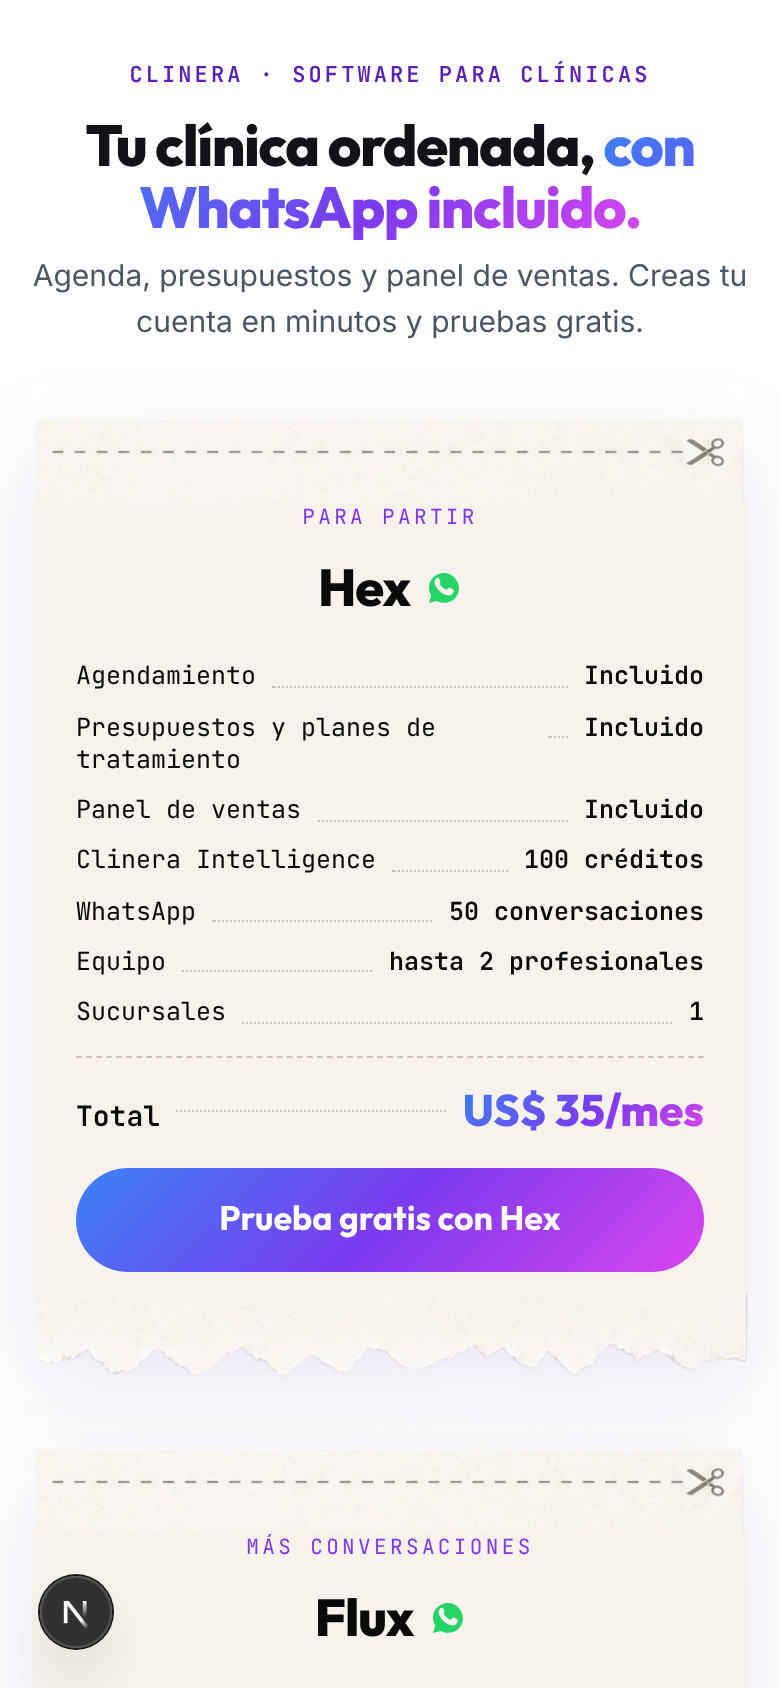
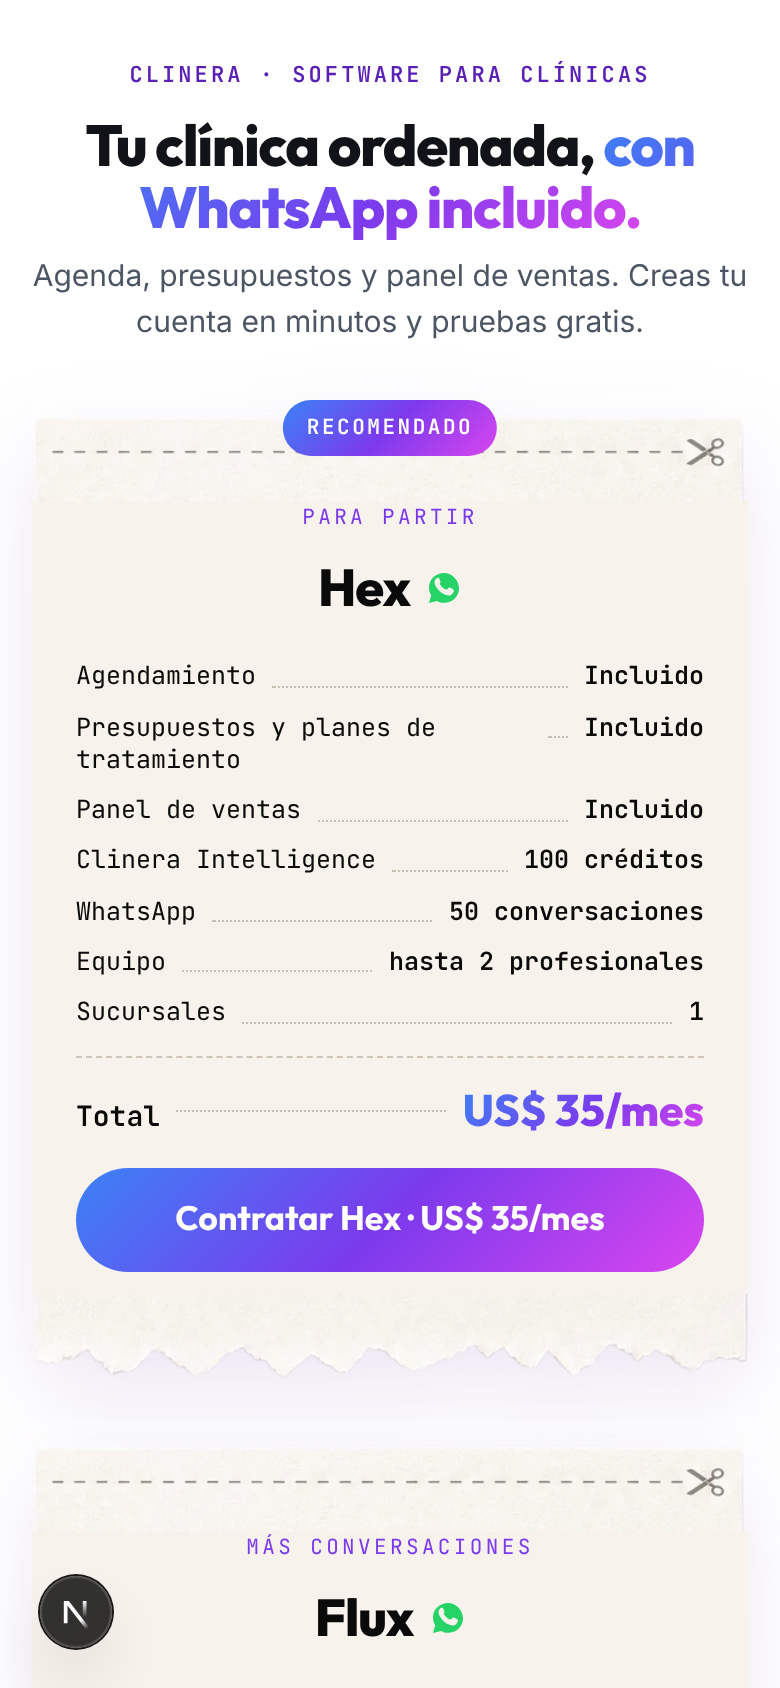
planes: Hex recomendado, primero, con CTA al Payment Link de Stripe
- Hex: insignia «Recomendado» y botón principal al checkout de Stripe (14AdRb…1441M),
  pelado (Analytics.tsx pone client_reference_id) y con los utm de la visita.
- Flux sigue con «Prueba gratis» como secundario. Vortex y Ecosistema sin cambios.
- Aplica en /contrata, /planes y /planes2 (comparten planes-nuevos.ts).

Claude-Session: https://claude.ai/code/session_01KKwzuPihJq4fwqu7rq7928

Changed region(s): [[0.3692, 0.2156, 0.6462, 0.2773], [0.2154, 0.7085, 0.7692, 0.7393]]

diff --git a/src/components/planes-nuevos/PlanesNuevos.tsx b/src/components/planes-nuevos/PlanesNuevos.tsx
@@ -32,7 +32,10 @@ import {
   PRUEBA_LINEA,
   PRUEBA_URL,
   VENTAS_LABEL,
+  HEX_PAGO_LABEL,
+  RECOMENDADO_LABEL,
   conPlan,
+  conUtm,
   faqPublica,
   ofertaVigente,
   precioOferta,
@@ -158,7 +161,13 @@ function Tarjeta({ plan, search, oferta, publico }: { plan: PlanNuevo; search: s
     const dec = meta.currency === "USD" && !Number.isInteger(v) ? 2 : 0;
     return `${meta.currency === "USD" ? "US$" : "MX$"} ${v.toLocaleString("es-CL", { minimumFractionDigits: dec, maximumFractionDigits: dec })}`;
   };
-  const href = plan.cta === "prueba" ? conPlan(PRUEBA_URL, plan.id, search) : conPlan("/agenda", plan.id, search);
+  const href =
+    plan.cta === "pago" && plan.pagoUrl
+      ? conUtm(plan.pagoUrl, search)
+      : plan.cta === "prueba"
+        ? conPlan(PRUEBA_URL, plan.id, search)
+        : conPlan("/agenda", plan.id, search);
+  const recomendado = plan.cta === "pago";
   const onClick = () => {
     if (plan.cta === "prueba") {
       track("start_trial_click", { plan: plan.id });
@@ -203,7 +212,7 @@ function Tarjeta({ plan, search, oferta, publico }: { plan: PlanNuevo; search: s
             ))}
           </span>
         )}
-        {(plan.cta === "prueba" || conOferta) && (
+        {(plan.cta === "prueba" || conOferta || recomendado) && (
           <span
             data-insignia
             style={{
@@ -219,10 +228,10 @@ function Tarjeta({ plan, search, oferta, publico }: { plan: PlanNuevo; search: s
               borderRadius: 999,
               whiteSpace: "nowrap",
               boxShadow: "0 4px 12px -4px rgba(15,23,42,.18)",
-              ...(conOferta ? { background: GRAD, color: "#fff" } : { background: "#ECFDF5", color: "#047857", border: "1px solid #A7F3D0" }),
+              ...(conOferta || recomendado ? { background: GRAD, color: "#fff" } : { background: "#ECFDF5", color: "#047857", border: "1px solid #A7F3D0" }),
             }}
           >
-            {conOferta ? `${OFERTA_LANZAMIENTO.porcentaje}% OFF` : "Prueba gratis"}
+            {recomendado ? RECOMENDADO_LABEL : conOferta ? `${OFERTA_LANZAMIENTO.porcentaje}% OFF` : "Prueba gratis"}
           </span>
         )}
       </div>
@@ -254,8 +263,11 @@ function Tarjeta({ plan, search, oferta, publico }: { plan: PlanNuevo; search: s
       <div style={{ display: "grid", gap: 10 }}>
       <a
         href={href}
-        onClick={onClick}
+        // El Payment Link va pelado: el clic lo cuenta Analytics.tsx (InitiateCheckout +
+        // client_reference_id). Un onClick propio lo contaba doble (16-oct).
+        onClick={plan.cta === "pago" ? undefined : onClick}
         data-cta={plan.cta}
+        {...(plan.cta === "pago" ? { "data-plan": plan.id, "data-plan-name": plan.name, "data-plan-value": plan.monthlyUsd } : {})}
         suppressHydrationWarning
         style={{
           display: "block",
@@ -268,12 +280,12 @@ function Tarjeta({ plan, search, oferta, publico }: { plan: PlanNuevo; search: s
           textDecoration: "none",
           minHeight: 44,
           boxSizing: "border-box",
-          ...(plan.cta === "ventas"
+          ...(plan.cta === "ventas" || plan.cta === "pago"
             ? { background: GRAD, color: "#fff" }
             : { background: "#fff", color: "#0A0A0A", border: "1px solid #E5E7EB" }),
         }}
       >
-        {plan.cta === "prueba" ? PRUEBA_LABEL : VENTAS_LABEL}
+        {plan.cta === "pago" ? HEX_PAGO_LABEL : plan.cta === "prueba" ? PRUEBA_LABEL : VENTAS_LABEL}
       </a>
       {pago?.pagoUrl ? (
         // Enlace pelado: el clic lo cuenta Analytics.tsx (InitiateCheckout + client_reference_id).

diff --git a/src/components/contrata/ContrataLanding.tsx b/src/components/contrata/ContrataLanding.tsx
@@ -13,11 +13,14 @@ import { useEffect, useSyncExternalStore } from "react";
 import { CHANNEL_LABEL, ChannelLogo } from "@/components/pricing/PlanChannelLogos";
 import { track, trackPixel } from "@/lib/tracking";
 import {
+  HEX_PAGO_LABEL,
   PLANES_NUEVOS,
+  RECOMENDADO_LABEL,
   PRUEBA_LABEL,
   PRUEBA_LINEA,
   PRUEBA_URL,
   conPlan,
+  conUtm,
   type PlanNuevo,
 } from "@/content/planes-nuevos";
 import styles from "./ContrataLanding.module.css";
@@ -74,10 +77,18 @@ export default function ContrataLanding() {
 }
 
 function Ticket({ plan, search }: { plan: PlanNuevo; search: string }) {
-  const href = conPlan(PRUEBA_URL, plan.id, search);
+  // Hex es el plan a vender (Ricardo, 4-nov-2026): su botón es el Payment Link de Stripe, con los utm
+  // de la visita. Flux sigue con «Prueba gratis», en segundo plano.
+  const pago = plan.cta === "pago" && plan.pagoUrl;
+  const href = pago ? conUtm(plan.pagoUrl!, search) : conPlan(PRUEBA_URL, plan.id, search);
   const lineas = [...BASE_COMUN, ...plan.incluye.filter((f) => f.includes(" con "))];
   return (
-    <article className={styles.ticket} data-contrata-plan={plan.id}>
+    <article className={`${styles.ticket} ${pago ? styles.recomendado : ""}`} data-contrata-plan={plan.id}>
+      {pago && (
+        <span className={styles.insignia} data-insignia>
+          {RECOMENDADO_LABEL}
+        </span>
+      )}
       {/* eslint-disable-next-line @next/next/no-img-element */}
       <img src="/images/agenda/boleta-arriba.webp" alt="" aria-hidden className={styles.papel} width={600} height={96} />
       <div className={styles.cuerpo}>
@@ -125,18 +136,33 @@ function Ticket({ plan, search }: { plan: PlanNuevo; search: string }) {
           <span className={styles.monto}>US$ {plan.monthlyUsd}/mes</span>
         </div>
 
-        <a
-          href={href}
-          suppressHydrationWarning
-          data-cta="prueba"
-          className={styles.cta}
-          onClick={() => {
-            track("start_trial_click", { plan: plan.id, source_path: "/contrata" });
-            trackPixel("StartTrial", { content_name: plan.name, value: 0, currency: "USD" });
-          }}
-        >
-          {PRUEBA_LABEL} con {plan.name}
-        </a>
+        {pago ? (
+          // Enlace pelado: Analytics.tsx cuenta el clic y le pone client_reference_id.
+          <a
+            href={href}
+            suppressHydrationWarning
+            data-cta="pago"
+            data-plan={plan.id}
+            data-plan-name={plan.name}
+            data-plan-value={plan.monthlyUsd}
+            className={styles.cta}
+          >
+            {HEX_PAGO_LABEL} · US$ {plan.monthlyUsd}/mes
+          </a>
+        ) : (
+          <a
+            href={href}
+            suppressHydrationWarning
+            data-cta="prueba"
+            className={`${styles.cta} ${styles.ctaSecundario}`}
+            onClick={() => {
+              track("start_trial_click", { plan: plan.id, source_path: "/contrata" });
+              trackPixel("StartTrial", { content_name: plan.name, value: 0, currency: "USD" });
+            }}
+          >
+            {PRUEBA_LABEL} con {plan.name}
+          </a>
+        )}
       </div>
       {/* eslint-disable-next-line @next/next/no-img-element */}
       <img src="/images/agenda/boleta-abajo.webp" alt="" aria-hidden className={styles.papel} width={600} height={70} />

diff --git a/src/content/planes-nuevos.ts b/src/content/planes-nuevos.ts
@@ -24,13 +24,21 @@ export type PlanNuevo = {
   incluye: readonly string[];
   /** Lo que NO trae, en gris: muestra qué se desbloquea al subir. */
   noIncluye: readonly string[];
-  cta: "prueba" | "ventas";
+  /** «pago»: Payment Link de Stripe (Hex, desde el 4-nov-2026). «prueba»: app.clinera.io. «ventas»: /agenda. */
+  cta: "pago" | "prueba" | "ventas";
+  /** Payment Link de Stripe cuando `cta` es «pago». */
+  pagoUrl?: string;
   destacado?: boolean;
   /** Logos de canales junto al nombre (Ricardo, 29-oct). Desde el 4-nov todos traen WhatsApp. */
   canales: readonly ("whatsapp" | "facebook" | "instagram")[];
 };
 
 export const PRUEBA_URL = "https://app.clinera.io";
+// Hex es el plan a vender y el cliente parte en Hex (Ricardo, 4-nov-2026): su CTA principal es el
+// Payment Link de Stripe. Enlace pelado: Analytics.tsx le pone client_reference_id al hacer clic.
+export const HEX_PAGO_URL = "https://buy.stripe.com/14AdRbdBnfD49wTgwz1441M";
+export const HEX_PAGO_LABEL = "Contratar Hex";
+export const RECOMENDADO_LABEL = "Recomendado";
 export const PRUEBA_LABEL = "Prueba gratis";
 export const VENTAS_LABEL = "Hablar con ventas";
 
@@ -46,8 +54,10 @@ export const PLANES_NUEVOS: readonly PlanNuevo[] = [
     sucursales: "1 sucursal",
     incluye: [...BASE, "Clinera Intelligence con 100 créditos", "WhatsApp con 50 conversaciones"],
     noIncluye: ["Instagram y Facebook", "Agente IA", "Automatizaciones", "Difusiones"],
-    cta: "prueba",
+    cta: "pago",
+    pagoUrl: HEX_PAGO_URL,
     canales: ["whatsapp"],
+    destacado: true,
   },
   {
     id: "flux",
@@ -98,7 +108,6 @@ export const PLANES_NUEVOS: readonly PlanNuevo[] = [
     noIncluye: [],
     cta: "ventas",
     canales: ["whatsapp", "facebook", "instagram"],
-    destacado: true,
   },
 ];
 
@@ -206,4 +215,12 @@ export function faqPublica(): { q: string; a: string }[] {
   const propias = PLANES2_FAQ.map((f) => ({ q: f.q, a: sinPendientes(f.a) })).filter((f) => f.a.length > 0);
   const publicidad = PLANES_FAQ.filter((f) => /publicidad/i.test(f.q));
   return [...propias, ...publicidad];
+}
+
+/** Payment Link con los utm de la visita (Stripe los guarda en la sesión de Checkout). */
+export function conUtm(url: string, search = ""): string {
+  const visita = new URLSearchParams(search);
+  const u = new URL(url);
+  for (const [k, v] of visita) if (k.startsWith("utm_") && v) u.searchParams.set(k, v);
+  return u.toString();
 }

diff --git a/tests/planes2.spec.ts b/tests/planes2.spec.ts
@@ -20,7 +20,14 @@ test.describe("/planes2", () => {
     await expect(cards.nth(0)).toHaveAttribute("data-plan-card", "hex");
     await expect(cards.nth(3)).toHaveAttribute("data-plan-card", "ecosistema");
 
-    for (const id of ["hex", "flux"]) {
+    // Hex es el plan a vender (Ricardo, 4-nov-2026): su CTA es el Payment Link de Stripe, pelado
+    // (Analytics.tsx le pone client_reference_id) y con los utm de la visita.
+    const hex = page.locator('[data-plan-card="hex"] a[data-cta]');
+    await expect(hex).toHaveText("Contratar Hex");
+    await expect(hex).toHaveAttribute("href", /^https:\/\/buy\.stripe\.com\/14AdRbdBnfD49wTgwz1441M\?utm_source=test$/);
+    await expect(hex).toHaveAttribute("data-plan", "hex");
+    await expect(hex).toHaveAttribute("data-plan-value", "35");
+    for (const id of ["flux"]) {
       const cta = page.locator(`[data-plan-card="${id}"] a[data-cta]`);
       await expect(cta).toHaveText("Prueba gratis");
       await expect(cta).toHaveAttribute("href", new RegExp(`^https://app\\.clinera\\.io\\?.*plan=${id}`));
@@ -53,7 +60,8 @@ test.describe("/planes2", () => {
     await expect(page.locator('[data-plan-card="ecosistema"] [data-precio]')).toContainText("US$ 303,20");
     await expect(page.locator('[data-plan-card="vortex"] [data-oferta]')).toHaveText("20% de descuento por 6 meses. Oferta de noviembre.");
     for (const id of ["vortex", "ecosistema"]) await expect(page.locator(`[data-plan-card="${id}"] [data-insignia]`)).toHaveText("20% OFF");
-    for (const id of ["hex", "flux"]) await expect(page.locator(`[data-plan-card="${id}"] [data-insignia]`)).toHaveText("Prueba gratis");
+    await expect(page.locator('[data-plan-card="hex"] [data-insignia]')).toHaveText("Recomendado");
+    await expect(page.locator('[data-plan-card="flux"] [data-insignia]')).toHaveText("Prueba gratis");
     // Desde el 4-nov-2026 todos los planes traen WhatsApp.
     await expect(page.locator('[data-plan-card="hex"] [data-canales]')).toHaveText("WhatsApp");
     await expect(page.locator('[data-plan-card="flux"] [data-canales]')).toHaveText("WhatsApp");

diff --git a/tests/contrata.spec.ts b/tests/contrata.spec.ts
@@ -28,12 +28,19 @@ test.describe("/contrata", () => {
     await expect(flux.locator('[data-linea="Agendamiento"]')).toBeVisible();
     for (const p of [hex, flux]) await expect(p.locator("[data-canales]")).toHaveText("WhatsApp");
 
-    for (const id of ["hex", "flux"]) {
-      const cta = page.locator(`[data-contrata-plan="${id}"] a[data-cta]`);
-      await expect(cta).toHaveAttribute("href", new RegExp(`^https://app\\.clinera\\.io\\?.*plan=${id}`));
-      await expect(cta).toHaveAttribute("href", /utm_source=test/);
-      await expect(cta).toHaveAttribute("href", /gclid=abc/);
-    }
+    // Hex primero y recomendado; su botón es el Payment Link de Stripe con los utm (el gclid viaja
+    // en client_reference_id, que pone Analytics.tsx al hacer clic). Flux sigue con «Prueba gratis».
+    await expect(hex.locator("[data-insignia]")).toHaveText("Recomendado");
+    const pago = hex.locator("a[data-cta]");
+    await expect(pago).toHaveAttribute("data-cta", "pago");
+    await expect(pago).toHaveAttribute("href", /^https:\/\/buy\.stripe\.com\/14AdRbdBnfD49wTgwz1441M\?utm_source=test$/);
+    await expect(pago).toHaveAttribute("data-plan", "hex");
+    await expect(pago).toHaveAttribute("data-plan-value", "35");
+    const prueba = flux.locator("a[data-cta]");
+    await expect(prueba).toHaveAttribute("data-cta", "prueba");
+    await expect(prueba).toHaveAttribute("href", /^https:\/\/app\.clinera\.io\?.*plan=flux/);
+    await expect(prueba).toHaveAttribute("href", /utm_source=test/);
+    await expect(prueba).toHaveAttribute("href", /gclid=abc/);
     await expect(page.locator("[data-contrata-ventas]")).toHaveAttribute("href", /^\/agenda\?.*utm_source=test/);
     const texto = await page.locator("main").innerText();
     expect(texto).not.toMatch(/no trae WhatsApp|implementaci|permanencia/i);

diff --git a/tests/planes-vigentes.spec.ts b/tests/planes-vigentes.spec.ts
@@ -40,7 +40,9 @@ test.describe("planes vigentes: Vortex · Ecosistema", () => {
     // Analytics.tsx lee data-plan* (InitiateCheckout + client_reference_id). Durante la promo del
     // Ecosistema su link (que cobra 529) no se muestra, igual que antes.
     const conLink = PLANES.filter((p) => p.pagoUrl);
-    await expect(page.locator('main a[href*="buy.stripe.com"]')).toHaveCount(conLink.length);
+    // + el de Hex, que es el CTA principal de su tarjeta desde el 4-nov-2026.
+    await expect(page.locator('main a[href*="buy.stripe.com"]')).toHaveCount(conLink.length + 1);
+    await expect(page.locator('[data-plan-card="hex"] a[data-cta="pago"]')).toHaveAttribute("data-plan", "hex");
     for (const p of conLink) {
       const pago = page.locator(`[data-plan-card="${p.id}"] a[href*="buy.stripe.com"]`);
       await expect(pago).toHaveAttribute("href", new RegExp("^" + p.pagoUrl.replace(/[.?]/g, "\\$&")));

diff --git a/src/components/contrata/ContrataLanding.module.css b/src/components/contrata/ContrataLanding.module.css
@@ -223,3 +223,31 @@
     transition: none;
   }
 }
+
+/* Hex recomendado (Ricardo, 4-nov-2026): insignia en degradado sobre el ticket; Flux, botón secundario. */
+.ticket {
+  position: relative;
+}
+
+.insignia {
+  position: absolute;
+  top: 6px;
+  left: 50%;
+  transform: translateX(-50%);
+  z-index: 1;
+  padding: 5px 12px;
+  border-radius: 999px;
+  background: linear-gradient(135deg, #3b82f6 0%, #7c3aed 50%, #d946ef 100%);
+  color: #fff;
+  font-size: 10.5px;
+  font-weight: 700;
+  letter-spacing: 0.12em;
+  text-transform: uppercase;
+  white-space: nowrap;
+}
+
+.ctaSecundario {
+  background: #fff;
+  color: #0a0a0a;
+  border: 1px solid #d6cdbf;
+}

diff --git a/AGENTS.md b/AGENTS.md
@@ -1396,3 +1396,15 @@ el home, `/agenda` y las landings. El modo `publico`:
 - JSON-LD y metadata de `/planes` salen de `PLANES_NUEVOS` (no de `softwareOffers`, que sigue en el home).
 - Pruebas que ya fallaban en `main` antes de este cambio: `aeo-entidad.spec.ts` (2), «/planes y la presentación lo
   muestran» (el deck ya no trae «Reunión de marketing cada semana») y `analytics.spec.ts` 4) (busca la tarjeta «hurricane»).
+
+# Hex es el plan a vender: CTA principal al checkout de Stripe (Ricardo, 4-nov-2026)
+
+En `/contrata`, `/planes` y `/planes2`, Hex va primero, con la insignia «Recomendado», y su botón principal es el
+Payment Link `HEX_PAGO_URL` (`planes-nuevos.ts`, `cta: "pago"`). Flux sigue con «Prueba gratis» como botón
+secundario, y Vortex y Ecosistema siguen con «Hablar con ventas».
+- **El link va pelado**, sin `onClick`, con `data-plan` / `data-plan-name` / `data-plan-value`. Así, al hacer clic,
+  `Analytics.tsx` cuenta el `InitiateCheckout` y le agrega el `client_reference_id` (gclid, GA, fbc, fbp, UA).
+- **Los `utm_*` de la visita** se le suman al link con `conUtm()`. El resto de la query no viaja: el gclid ya va en
+  el `client_reference_id`. Se comprobó con un clic real en Chromium.
+- **Lo que cobra el link no está verificado:** la llave de Stripe del entorno no tiene permiso para leer Payment
+  Links, y `data-plan-value` dice 35. Si el precio cambia en Stripe, hay que cambiar `monthlyUsd` y el link a la vez.
